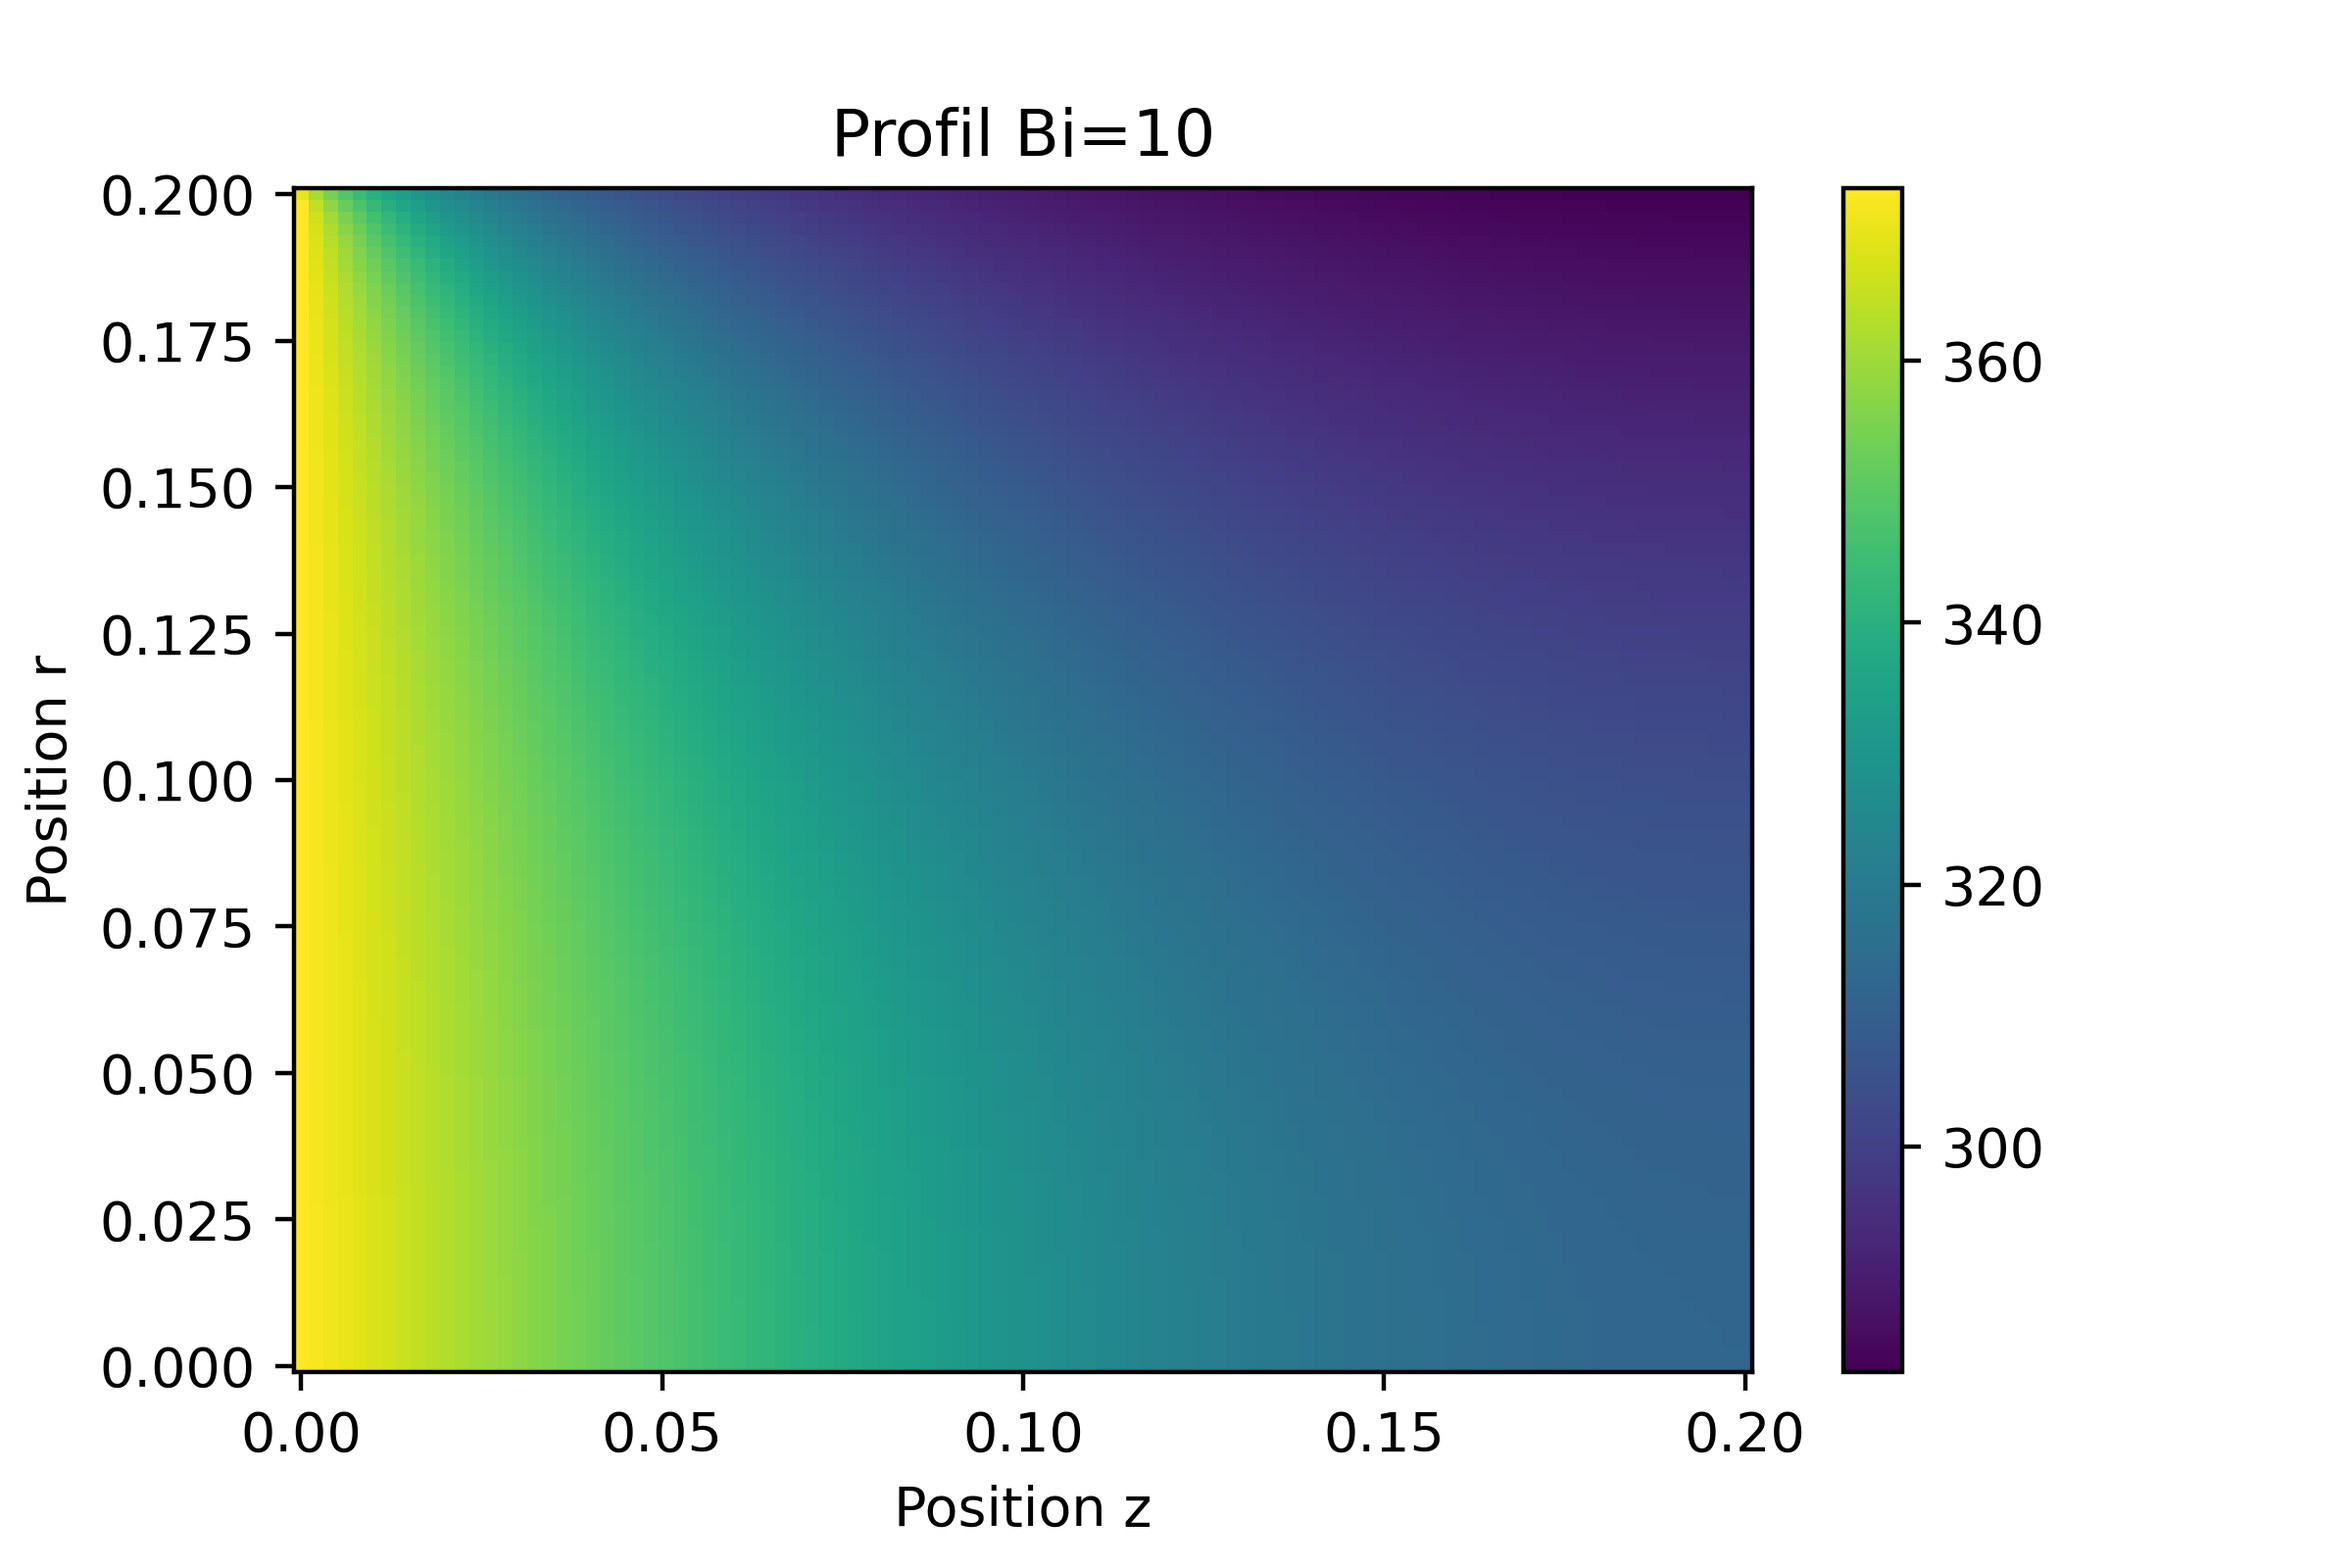
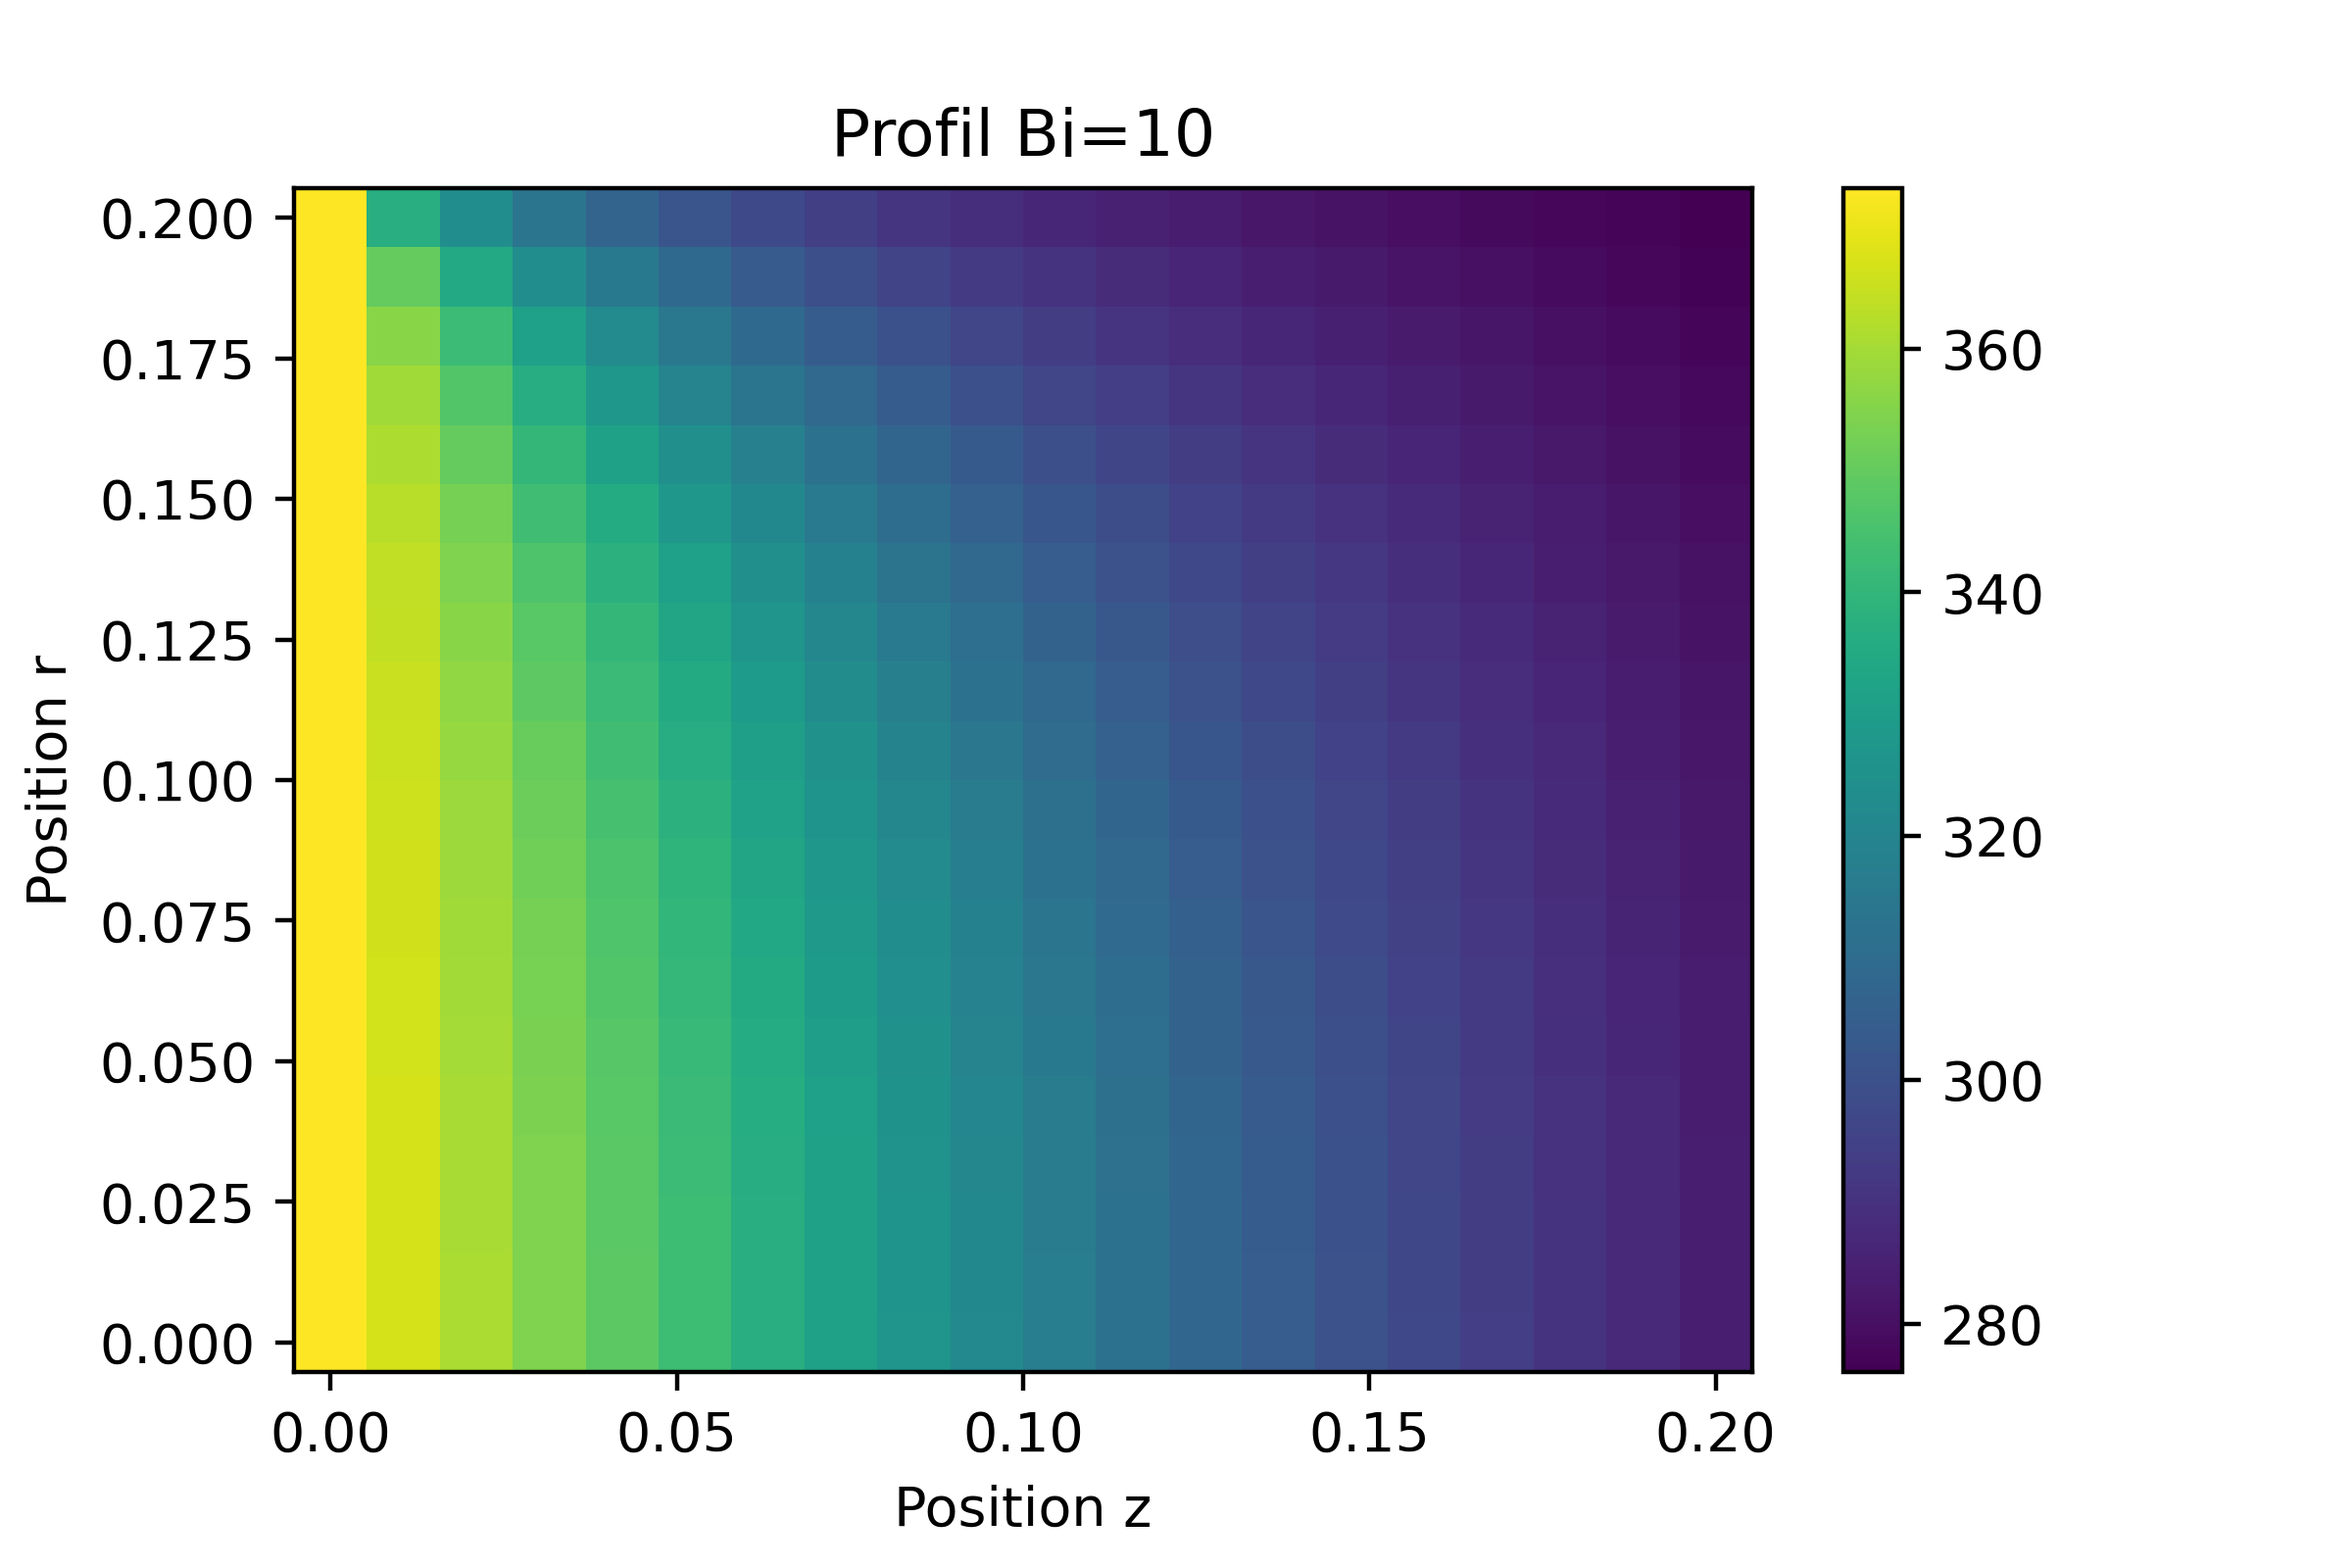
fix CL and second analysis

diff --git a/main.py b/main.py
@@ -23,8 +23,8 @@ T_w = 100+273.15     # [K] Température de base
 R = .2       # [m] Rayon 
 h = 1      # [W/m^2*K] Coefficient de convection
 Bi = 1
-nr = 100       # [-] Nombre de points en z
-nz = 100
+nr = 20      # [-] Nombre de points en z
+nz = 20
 CL = "isole"
     
 prm = Parametres(L, k, T_inf, T_w, R, h, nr, nz,CL)
@@ -42,7 +42,6 @@ x,y = position(X, Y, prm)
 
 #=========================1ere analyse=========================
 z = np.linspace(0, prm.L, prm.nz)
-T = ref_analytique(z,prm)
 #plt.plot(z, T, '--r', label="Profil analytique")
 list_Bi = [0.05,0.1, 1, 10, 20, 100]
 #list_Bi = [20]
@@ -71,33 +70,61 @@ for Bi_i in list_Bi:
     plt.show()
 
 #=========================2e analyse - Base=========================
-
-
-
-#=========================2e analyse - Contour=========================
 list_Bi = [0.1, 1, 10, 20, 100]
-z = np.linspace(0, prm.L, prm.nz)
-
-T = prm.T_w
-
-q_contour_isole = inte_fluxContour(T,z,prm)
-plt.plot(z, q_contour_isole, '--r', label="q contour isole")
-prm.setCL("convection")
-q_contour_convection = inte_fluxContour(T,z,prm)
-plt.plot(z, q_contour_convection, '--b', label="q contour convection")
-plt.show()
-# # =========================Analyse Bonus=========================
-list_Bi = [0.1, 1, 10, 20, 100]
+r = np.linspace(0, prm.R, prm.nr)
 for Bi_i in list_Bi:
     prm.setBi(Bi_i)
+    prm.setCL("isole")
     A,b = mdf_assemblage(X,Y,prm)
-    c = np.linalg.solve(A,b)
+    c = np.linalg.solve(A,b) 
     c_reshaped = c.reshape(prm.nz,prm.nr).transpose()
-    fig,ax = plt.subplots(nrows=1,ncols=1)
-    fig1 = ax.pcolormesh(x,y, c_reshaped)
-    plt.colorbar(fig1, ax=ax)
-    ax.set_title("Profil Bi="+str(prm.Bi))
-    ax.set_xlabel("Position z")
-    ax.set_ylabel("Position r")
-    plt.savefig("Profil2D_Bi"+str(prm.Bi)+".png", dpi=400)
-    plt.show()
+    T = c_reshaped
+    q_base_isole = inte_fluxBase(T,r,prm)
+    print("calcul flux a la base de l'ailette avec condition isolee:" + str(q_base_isole))
+    prm.setCL("convection")
+    A,b = mdf_assemblage(X,Y,prm)
+    c = np.linalg.solve(A,b) 
+    c_reshaped = c.reshape(prm.nz,prm.nr).transpose()
+    T2 = c_reshaped
+    q_base_convection = inte_fluxBase(T2,r,prm)
+    print("calcul flux a la base de l'ailette avec condition convection:" + str(q_base_convection))
+#=========================2e analyse - Contour=========================
+# list_Bi = [0.1, 1, 10, 20, 100]
+# z = np.linspace(0, prm.L, prm.nz)
+# for Bi_i in list_Bi:
+#     prm.setBi(Bi_i)
+#     prm.setCL("isole")
+#     A,b = mdf_assemblage(X,Y,prm)
+#     c = np.linalg.solve(A,b) 
+#     c_reshaped = c.reshape(prm.nz,prm.nr).transpose()
+#     T = c_reshaped
+#     q_contour_isole = inte_fluxContour(T,z,prm)
+#     print("calcul flux au contour de l'ailette avec condition isole:" + str(q_contour_isole))
+#     prm.setCL("convection")
+#     A,b = mdf_assemblage(X,Y,prm)
+#     c = np.linalg.solve(A,b) 
+#     c_reshaped = c.reshape(prm.nz,prm.nr)
+#     T = c_reshaped
+#     q_contour_convection = inte_fluxContour(T,z,prm)
+#     print("calcul flux au contour de l'ailette avec condition convection:" + str(q_contour_convection))
+    # T = ref_analytique(z,prm)
+    # q_analytique= inte_fluxContour(T, z, prm)
+    # print("calcul flux au contour de l'ailette avec condition convection ANALYTIQUE:" + str(q_analytique))
+# # =========================Analyse Bonus=========================
+list_Bi = [0.1, 1, 10, 20, 100]
+condition_limite = ["isole","convection"]
+for Bi_i in list_Bi:
+    for cl in condition_limite:
+        prm.setBi(Bi_i)
+        prm.setCL(cl)
+        A,b = mdf_assemblage(X,Y,prm)
+        c = np.linalg.solve(A,b)
+        c_reshaped = c.reshape(prm.nz,prm.nr).transpose()
+        fig,ax = plt.subplots(nrows=1,ncols=1)
+        fig1 = ax.pcolormesh(x,y, c_reshaped)
+        plt.colorbar(fig1, ax=ax)
+        ax.set_title("Profil Bi="+str(prm.Bi)+"CL="+str(prm.CL))
+        ax.set_xlabel("Position z")
+        ax.set_ylabel("Position r")
+        plt.savefig("Profil2D_Bi"+str(prm.Bi)+"_"+str(prm.CL)+".png", dpi=400)
+        plt.show()

diff --git a/profil.py b/profil.py
@@ -169,7 +169,7 @@ def mdf_assemblage(X,Y,prm):
             b[k] = 0
     elif CL=="convection":
         i = nz - 1
-        for j in range(0, nr):
+        for j in range(1, nr-1):
             k = i * nr + j
             A[k,k] = 3 + 2*dz*h/k_cond
             A[k,k-nr] = -4
@@ -190,7 +190,7 @@ def mdf_assemblage(X,Y,prm):
             
     # Frontière haut
     j = 0
-    for i in range(0, nz):
+    for i in range(1, nz):
         # k = i * nr + j
         # A[k,k] = -3 + h*2*dr/k_cond  
         # A[k,k+1] = 4
